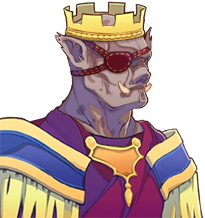
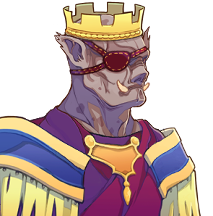
Consolidation of Orcent's alternate identities (#2)

diff --git a/Bust Config.rb b/Bust Config.rb
@@ -31,7 +31,7 @@ Busty::FACE_TO_BUST = {
   "Ulrissa emo3" => "Ulrissa2",
   "Z Andra emo" => nil, # To only allow face 4, see below
   "Z Andra emoN" => nil, # No bust for no robe Andra
-  # "Z Orcent" => "Orcent1", # FIXME Temporary disable of some of Orcent's faces (bust mismatch)
+  "Z Orcent" => "Orcent1",
 }
 
 Busty::SUBSET_TO_BUST = [
@@ -58,8 +58,7 @@ Busty::SUBSET_TO_BUST = [
   {
     character_name: "Orcent1",
     face_name: "Orcent",
-    # face_indexes: [0, 1], # FIXME Mismatch for face 0 as of now
-    face_indexes: [1],
+    face_indexes: [0, 1]
   },
   {
     character_name: "Orcent2",
@@ -953,37 +952,34 @@ Busty::BASE_CONFIG.merge!({
     face_border_width: 1,
   },
   "Orcent IK" => {
-    bust_scale: 0.73,
-    face_offset_x: 62,
-    face_offset_y: 19,
+    bust_scale: 0.727272,
+    face_offset_x: 61,
+    face_offset_y: 18,
   },
   "Orcent merchant" => {
-    bust_scale: 0.73,
-    face_offset_x: 62,
+    bust_scale: 0.727272,
+    face_offset_x: 61,
     face_offset_y: 18,
-    face_border_width: 5,
   },
   "Orcent priest" => {
-    bust_scale: 0.73,
-    face_offset_x: 62,
-    face_offset_y: 19,
+    bust_scale: 0.727272,
+    face_offset_x: 61,
+    face_offset_y: 18,
   },
   "Orcent slave" => {
-    bust_scale: 0.74,
-    face_offset_x: 64,
-    face_offset_y: 19,
+    bust_scale: 0.727272,
+    face_offset_x: 61,
+    face_offset_y: 18,
   },
-  # FIXME Minor. Coloring issue for the no eyepatch face
   "Orcent1" => {
-    bust_scale: 0.73,
-    face_offset_x: 62,
-    face_offset_y: 19,
+    bust_scale: 0.727272,
+    face_offset_x: 61,
+    face_offset_y: 18,
   },
   "Orcent2" => {
-    bust_scale: 0.74,
-    face_offset_x: 36,
-    face_offset_y: 26,
-    face_border_width: [0, 0, 20, 15],
+    bust_scale: 0.727272,
+    face_offset_x: 35,
+    face_offset_y: 31,
   },
   "Grubbak" => {
     bust_scale: 0.73,
